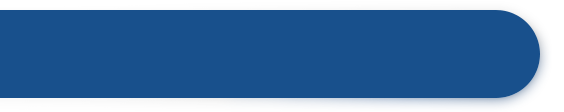
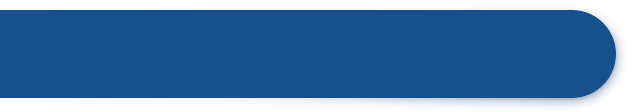
Replace xlist_top images && Replace the layer bounds

Changed region(s): [[0.8741, 0.0804, 0.9645, 0.8839]]

diff --git a/EXFE/EFHeadView.m b/EXFE/EFHeadView.m
@@ -17,7 +17,7 @@
 #define kHalfTitleHeight    (22.0f)
 #define kTitleViewWidth     (306.0f)
 #define kTitleViewFrame     ((CGRect){{0.0f, 0.0f}, {kTitleViewWidth, kHalfTitleHeight * 2}})
-#define kTitleLayerWidth    (282.0f)
+#define kTitleLayerWidth    (320.0f)
 #define kTitleLayerFrame     ((CGRect){{0.0f, 0.0f}, {kTitleLayerWidth, kDefaultHeight}})
 #define kTitleLayerBlank    (3.0f)
 #define kTitleLayerAnimationDelay   (0.05f)
@@ -261,7 +261,7 @@
         CALayer *layer = self.titleLayers[i];
         layer.hidden = NO;
         
-        CGPoint newPosition = (CGPoint){kTitleViewWidth, -(CGRectGetHeight(kTitleLayerFrame) - CGRectGetHeight(kTitleViewFrame)) * 0.5f};
+        CGPoint newPosition = (CGPoint){CGRectGetMaxX(self.titleView.frame), -(CGRectGetHeight(kTitleLayerFrame) - CGRectGetHeight(kTitleViewFrame)) * 0.5f};
         CGRect newBounds = kTitleLayerFrame;
         
         if (animated) {
